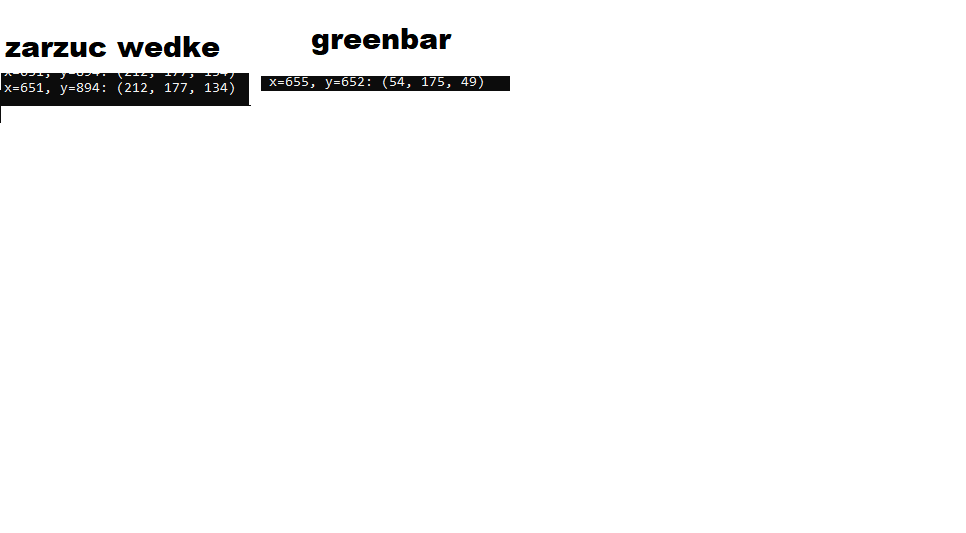
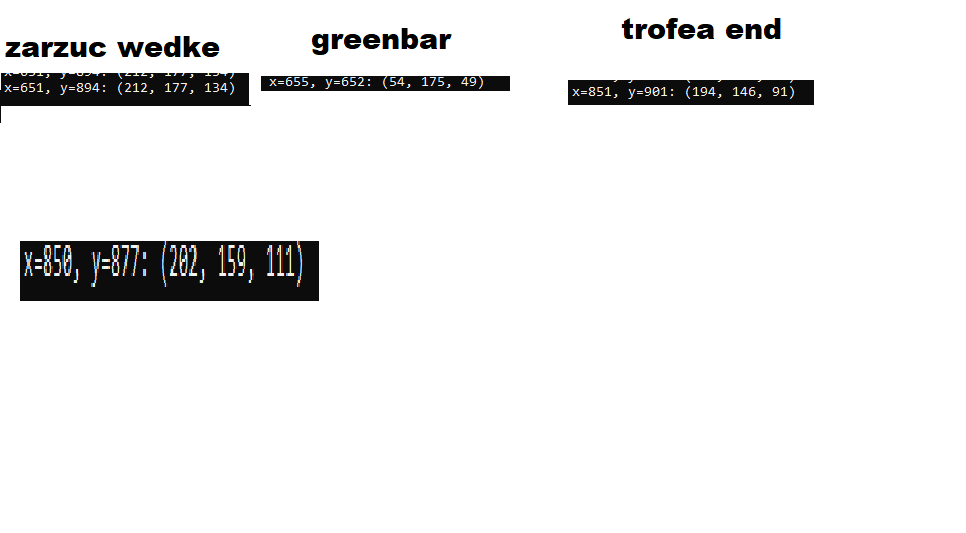
working program
-without gui
-spinning only
-with anti cheat bypass

Changed region(s): [[0.0, 0.4503, 0.3416, 0.5704], [0.5901, 0.1501, 0.8696, 0.2101], [0.6211, 0.03, 0.8075, 0.0901]]

diff --git a/betas.py b/betas.py
@@ -1,5 +1,6 @@
 import pyautogui
 import time
+import threading
 from pynput.keyboard import Controller as KeyController, Key
 
 def zarzuc_wedke():
@@ -9,18 +10,34 @@ def zarzuc_wedke():
     pyautogui.click()
     print("Zarzucam wedkę")
 
-def sprawdz_kolor(x, y, kolor):
-    return pyautogui.pixelMatchesColor(x, y, kolor)
+def sprawdz_kolor(x, y, kolor, komunikat):
+    pixel_color = pyautogui.pixel(x, y)
+    if pixel_color == kolor:
+        print(komunikat)
+        return True
+    return False
 
 def klikaj_spacje():
     keyboard = KeyController()
     while True:
-        if sprawdz_kolor(655, 652, (54, 175, 49)) or sprawdz_kolor(851, 901, (194, 146, 91)):
+        if sprawdz_kolor(655, 652, (54, 175, 49), "Zarzucam wedkę") or sprawdz_kolor(851, 901, (202, 159, 111), "Złowiłem"):
             break
-        keyboard.press(Key.space)
-        keyboard.release(Key.space)
-        time.sleep(0.1)  # Dodajemy opóźnienie 0.1 sekundy
+        with keyboard.pressed(Key.space):
+            time.sleep(0.04)  
+
+def klikaj_esc_co_23_sekund():
+    keyboard = KeyController()
+    while True:
+        keyboard.press(Key.esc)
+        keyboard.release(Key.esc)
+        time.sleep(23)
 
 if __name__ == "__main__":
+    
+    esc_thread = threading.Thread(target=klikaj_esc_co_23_sekund)
+    esc_thread.daemon = True
+    esc_thread.start()
+
+    
     zarzuc_wedke()
     klikaj_spacje()
